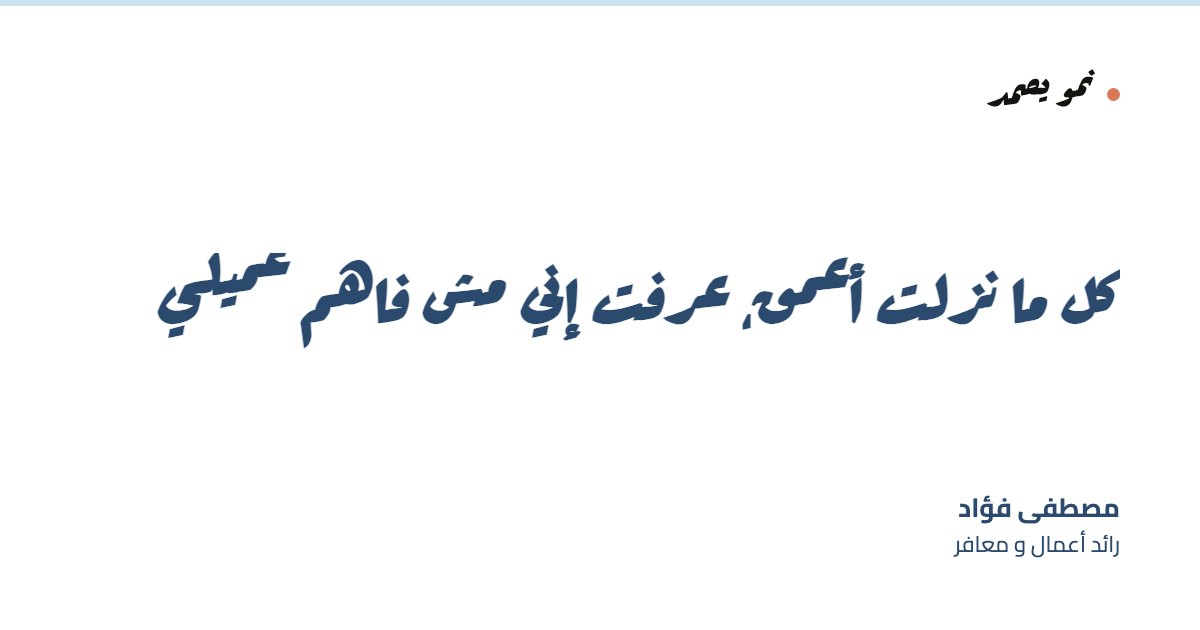
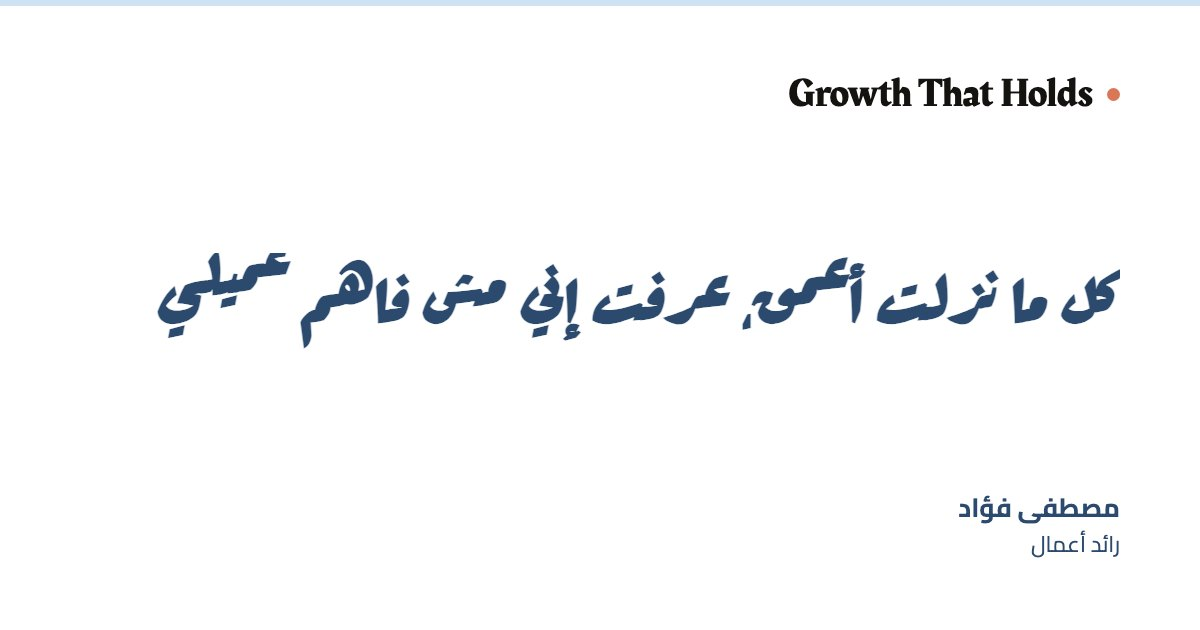
English name Growth That Holds; drop معافر; remove لسه في الطريق

Changed region(s): [[0.6475, 0.1206, 0.925, 0.181], [0.8017, 0.8444, 0.8633, 0.8746]]

diff --git a/app/globals.css b/app/globals.css
@@ -3,7 +3,7 @@
 @tailwind utilities;
 
 /* ─────────────────────────────────────────────────────────────────────────
-   نمو يصمد — design system
+   Growth That Holds — design system
    Ported from the visual reference. Tokens mirror tailwind.config.js.
    ───────────────────────────────────────────────────────────────────────── */
 :root {
@@ -41,7 +41,7 @@ a { color:inherit; text-decoration:none; cursor:pointer; }
 
 /* ── HEADER ─────────────────────────────────────────────────────────────── */
 .topbar { position:sticky; top:0; z-index:40; background:rgba(255,255,255,.9); backdrop-filter:blur(8px); border-bottom:1px solid var(--rule-strong); }
-.topbar .inner { max-width:1080px; margin:0 auto; padding:16px 32px; display:flex; align-items:center; justify-content:space-between; }
+.topbar .inner { max-width:1080px; margin:0 auto; padding:16px 32px; display:flex; align-items:center; justify-content:space-between; gap:16px; }
 .brand { font-family:var(--display); font-size:30px; line-height:1; display:flex; align-items:center; gap:11px; white-space:nowrap; }
 .brand .dot { width:7px; height:7px; border-radius:50%; background:var(--accent2); }
 .topbar nav { display:flex; gap:26px; }
@@ -321,9 +321,19 @@ a.track-dot:focus-visible { outline:2px solid var(--accent); outline-offset:3px;
   .ep-num { font-size:30px; }
 }
 
-@media (max-width:400px) {
-  .brand { font-size:22px; }
-  .topbar .inner { padding:8px 16px; }
+@media (max-width:460px) {
+  /* The Latin name is wider than the old Arabic one; keep it clear of the nav. */
+  .brand { font-size:19px; gap:8px; }
+  .topbar .inner { padding:8px 16px; gap:12px; }
+  .topbar nav { gap:10px; }
+  .topbar nav a { font-size:13.5px; padding:10px 2px; }
+}
+
+@media (max-width:350px) {
+  .brand { font-size:16px; gap:6px; }
+  .topbar .inner { padding:8px 12px; gap:8px; }
+  .topbar nav { gap:6px; }
+  .topbar nav a { font-size:13px; }
 }
 
 

diff --git a/lib/config.ts b/lib/config.ts
@@ -5,7 +5,7 @@
  */
 
 export const BLOG_CONFIG = {
-  blogName:  'نمو يصمد',
+  blogName:  'Growth That Holds',
   siteTitle: 'مصطفى فؤاد',
 
   // ↓ Canonical origin — used by metadataBase, sitemap, RSS and JSON-LD.
@@ -20,7 +20,7 @@ export const BLOG_CONFIG = {
   // ↓ Author identity. authorRole shows in the author strip and the footer;
   //   authorBio is About-page only since Part C dropped the home sidebar.
   // ← Moustafa may replace this line
-  authorRole: 'رائد أعمال و معافر',
+  authorRole: 'رائد أعمال',
   // ← Moustafa may replace this line
   authorBio:  'بديت صيدلي، بس اخترت أبني. هنا بكتب عن رحلة البناء بحلوها ومرّها، الأيام الصعبة، الانتصارات الصغيرة، واللي بتتعلمه في الطريق.',
 

diff --git a/tailwind.config.js b/tailwind.config.js
@@ -6,7 +6,7 @@ module.exports = {
   ],
   theme: {
     extend: {
-      // ─── Design System Tokens (نمو يصمد) ───────────────────────────
+      // ─── Design System Tokens (Growth That Holds) ───────────────────────────
       colors: {
         paper:          '#FFFFFF',   // white — main background
         card:           '#FFFFFF',   // white — card backgrounds

diff --git a/components/Header.tsx b/components/Header.tsx
@@ -15,7 +15,7 @@ export default function Header() {
       <div className="inner">
         <Link href="/" className="brand">
           <span className="dot" />
-          {BLOG_CONFIG.blogName}
+          <bdi dir="ltr">{BLOG_CONFIG.blogName}</bdi>
         </Link>
         <nav>
           <Link href="/" className={onArticles ? 'active' : ''}>المقالات</Link>

diff --git a/public/admin/index.html b/public/admin/index.html
@@ -3,7 +3,7 @@
   <head>
     <meta charset="utf-8" />
     <meta name="viewport" content="width=device-width, initial-scale=1.0" />
-    <title>نمو يصمد — لوحة التحكم</title>
+    <title>Growth That Holds — لوحة التحكم</title>
   </head>
   <body>
     <script src="https://unpkg.com/decap-cms@^3.0.0/dist/decap-cms.js"></script>

diff --git a/scripts/og-template.html b/scripts/og-template.html
@@ -90,7 +90,7 @@
 
     <div class="brand">
       <span class="dot"></span>
-      <span>{{BRAND}}</span>
+      <span dir="ltr">{{BRAND}}</span>
     </div>
 
     <h1 class="title">{{TITLE}}</h1>

diff --git a/content/pages/about.md b/content/pages/about.md
@@ -14,10 +14,10 @@ kicker: "عن الكاتب"
 
 بكتب هنا عن الرحلة دي. مش عن الشركة، عن الشخص اللي بيعدّيها.
 
-و بكتب المدونة دي لنفسي قبل أي حد. لأني بشوف الناس كلها مستنية قصص النجاح الكبيرة، الشركة اللي عملت مليار، الإكزيت الضخم. بس فيه قصص كتير، قصص تعب و بناء و معافرة، محتاجة تتكتب، و محدش بيحكيها. و دي القصص اللي تخصّني.
+و بكتب المدونة دي لنفسي قبل أي حد. لأني بشوف الناس كلها مستنية قصص النجاح الكبيرة، الشركة اللي عملت مليار، الإكزيت الضخم. بس فيه قصص كتير، قصص تعب و بناء، محتاجة تتكتب، و محدش بيحكيها. و دي القصص اللي تخصّني.
 
 بكتب عن الاتنين: **الصعب والحلو**. مش عن النجاح بس، ولا عن الألم بس، عن الرحلة كاملة وهي لسه بتحصل.
 
-بكتب للناس اللي بتبني. لو إنت منهم، أهلاً بيك في نمو يصمد.
+بكتب للناس اللي بتبني. لو إنت منهم، أهلاً بيك في Growth That Holds.
 
 *ملاحظة: معظم الكلام المكتوب هنا بيتكتب بمساعدة الذكاء الاصطناعي. بس الأفكار و الأحكام و الرؤية، ١٠٠٪ مني.*
